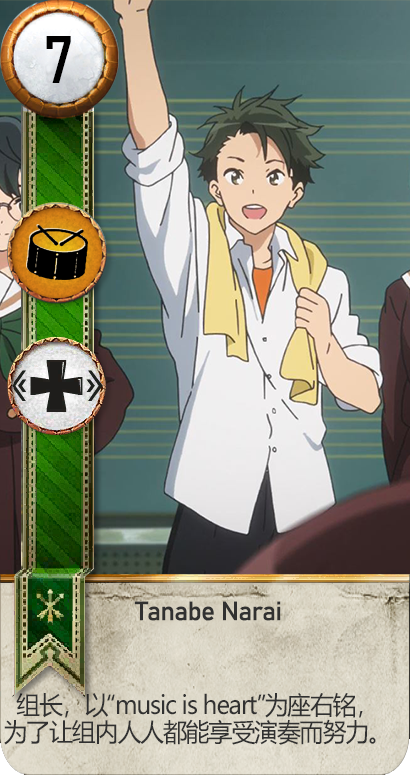
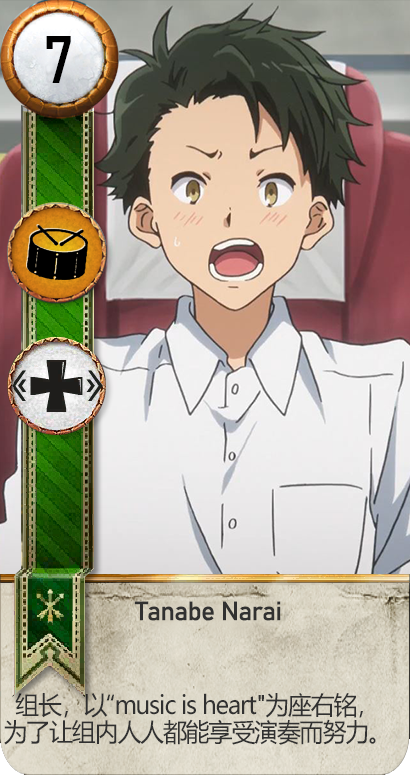
new card images

diff --git a/client/js/client.js b/client/js/client.js
@@ -295,7 +295,10 @@ let SideView = Backbone.View.extend({
     }
     let sub, subAnimClass;
     let animClass = null;
-    if (card.data("ability").includes("spy")) {
+    if (card.data("ability").includes("medic")) {
+      // skip animation for medic, otherwise flash screen
+      return;
+    } else if (card.data("ability").includes("spy")) {
       animClass = "spy-card";
     } else if (card.data("ability").includes("morale")) {
       animClass = "morale-card";
